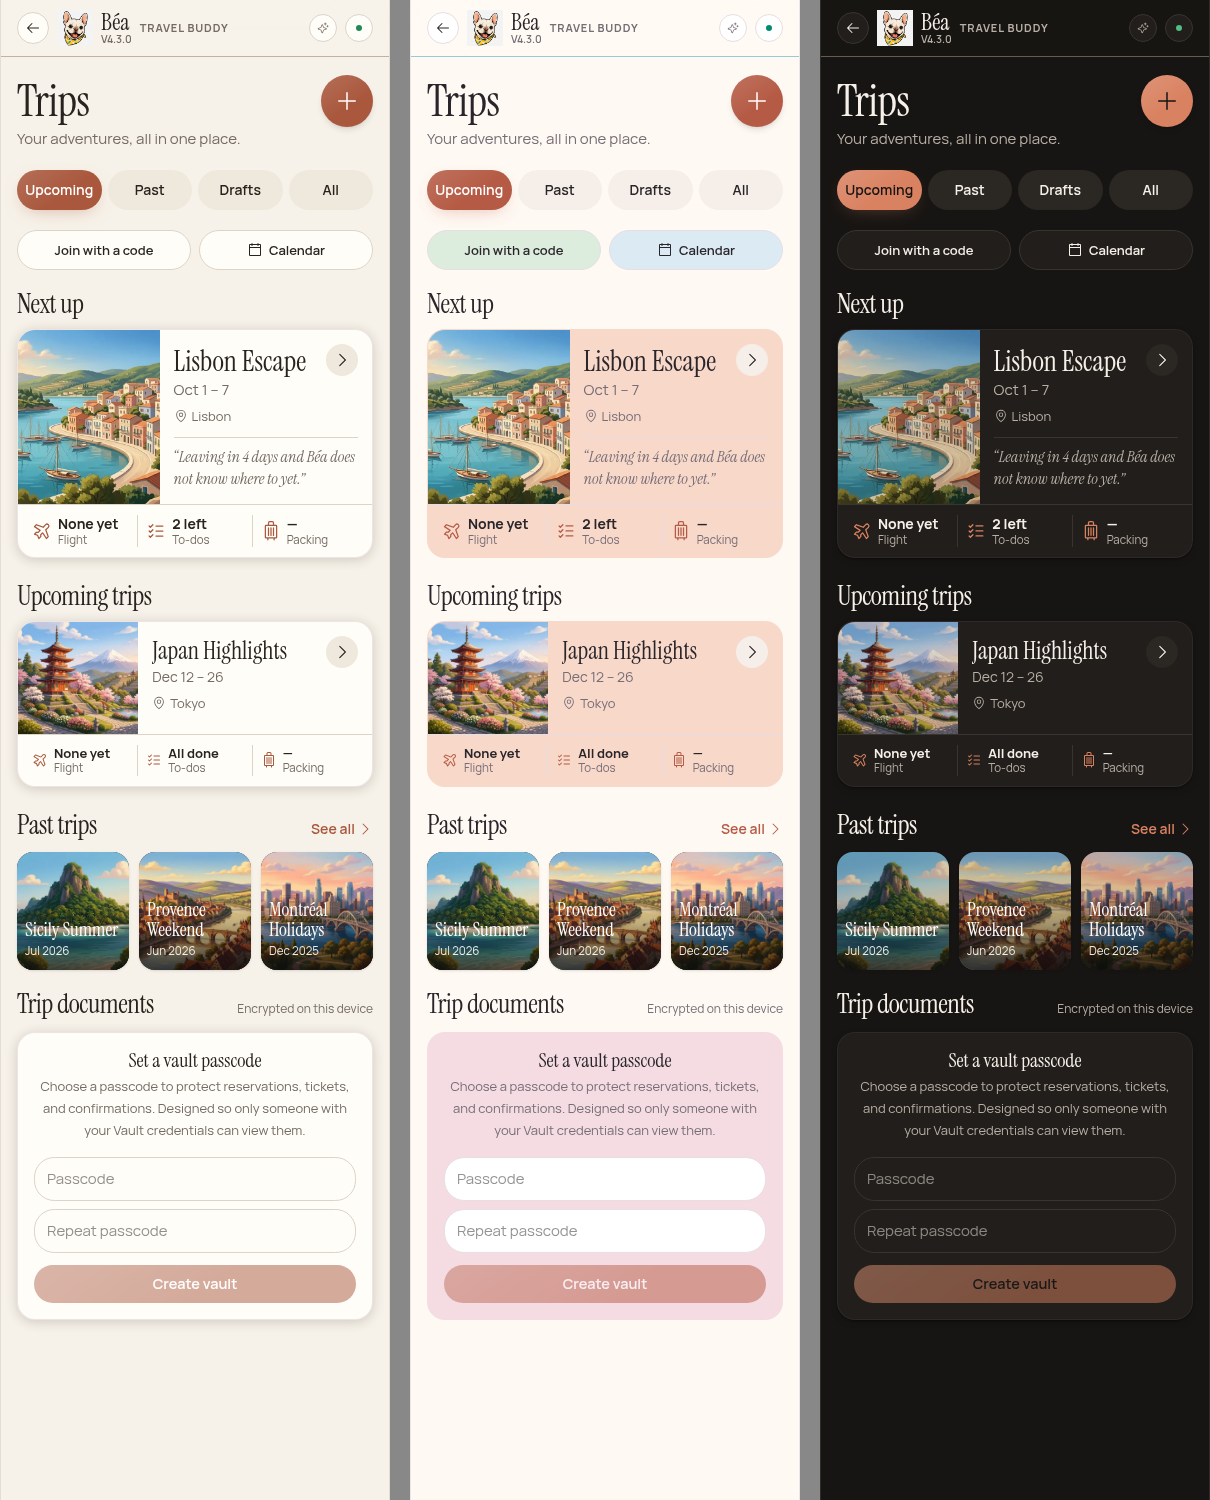
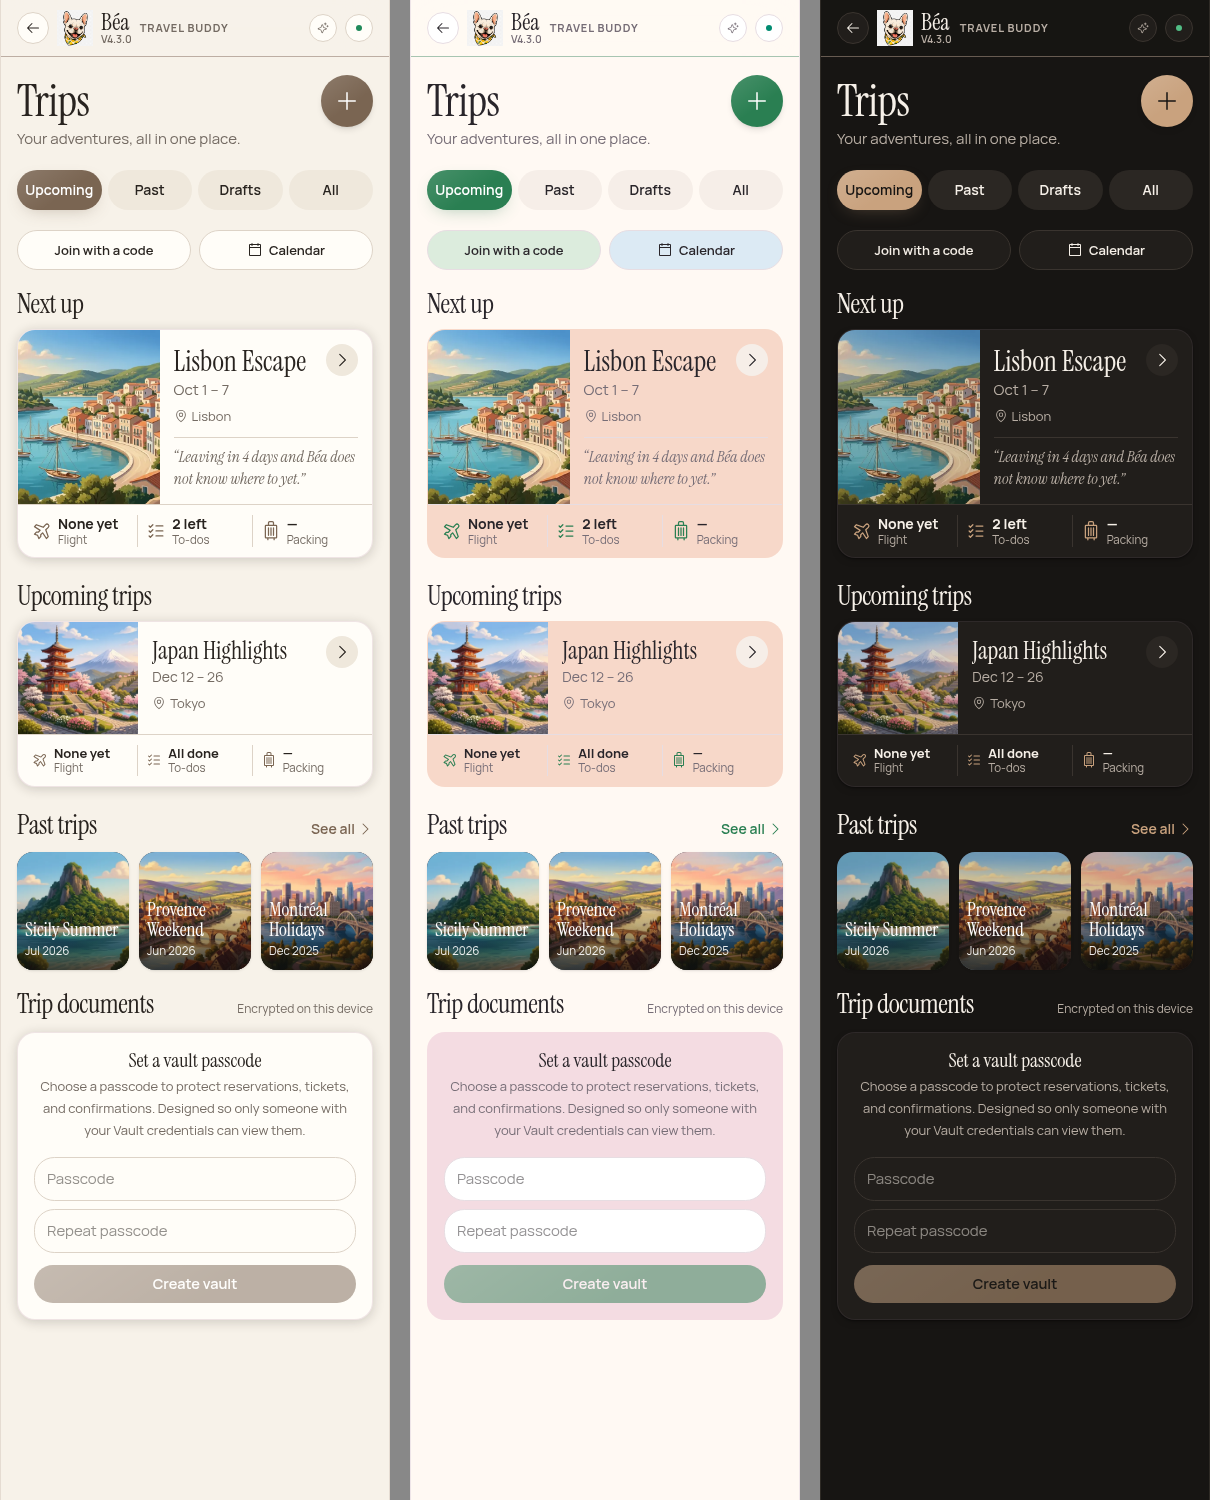
No terracotta: taupe in Calm, beige in Dark, a pastel accent per tab in Colorful
Claude-Session: https://claude.ai/code/session_01TVRL6Vd59wbijmpHwJPEuE

diff --git a/src/styles.css b/src/styles.css
@@ -86,10 +86,10 @@
   --elevated: #efe8dc;
   --popover: #ffffff;
   --popover-foreground: #28231f;
-  --primary: #a9583d;
+  --primary: #7a6552;
   --primary-foreground: #ffffff;
   /* A tint of the primary, for selected chips and quiet highlights. */
-  --primary-soft: rgb(169 88 61 / 0.12);
+  --primary-soft: rgb(122 101 82 / 0.12);
   --secondary: #efe8dc;
   --secondary-foreground: #28231f;
   --muted: #f0eae0;
@@ -100,7 +100,7 @@
   --destructive-foreground: oklch(0.99 0.008 86);
   --border: #ddd3c7;
   --input: #ddd3c7;
-  --ring: #a9583d;
+  --ring: #7a6552;
 
   --visited: oklch(0.55 0.135 249);
   --nexttime: oklch(0.56 0.12 158);
@@ -118,18 +118,18 @@
   /* Accent text on an inverted surface (bg-foreground), e.g. the Now card. */
   --inverse-accent: oklch(0.8 0.06 60);
 
-  --tab-l: 0.54;
-  --tab-c: 0.07;
+  --tab-l: 0.5;
+  --tab-c: 0.03;
 
   /* Diffuse and low-contrast: modern depth is soft, not a hard drop shadow. */
   --shadow-xs: 0 1px 2px oklch(0.3 0.02 60 / 0.04);
   --shadow-sm: 0 2px 12px rgb(30 26 23 / 0.19);
   --shadow-md: 0 2px 12px rgb(30 26 23 / 0.19);
   --shadow-lg: 0 6px 24px rgb(30 26 23 / 0.22);
-  --shadow-primary: 0 6px 18px -8px rgb(169 88 61 / 0.5);
+  --shadow-primary: 0 6px 18px -8px rgb(122 101 82 / 0.45);
   --shadow-soft: var(--shadow-md);
 
-  --gradient-clay: linear-gradient(142deg, #b5654a, #a9583d);
+  --gradient-clay: linear-gradient(142deg, #8a7560, #7a6552);
   /* Barely-there warmth so the page is not a flat fill. */
   --page-wash: radial-gradient(120% 70% at 50% -10%, oklch(1 0.006 80 / 0.9), transparent 70%);
 
@@ -169,7 +169,7 @@
 }
 
 /* Colorful — the master's pastels (peach, sky, mint, butter, blush) on a warm
-   white, with a terracotta accent. Lavender is left out: no purple wash. */
+   white. The accent alternates between the pastels, one per tab (below). */
 [data-theme="colorful"] {
   --background: #fff9f3;
   --foreground: #29252a;
@@ -178,9 +178,9 @@
   --elevated: #f6eee8;
   --popover: #ffffff;
   --popover-foreground: #29252a;
-  --primary: #b55b45;
+  --primary: #2f7bb0;
   --primary-foreground: #ffffff;
-  --primary-soft: rgb(181 91 69 / 0.12);
+  --primary-soft: rgb(47 123 176 / 0.13);
   --secondary: #f6eee8;
   --secondary-foreground: #29252a;
   --muted: #f7f0ea;
@@ -189,7 +189,7 @@
   --accent-foreground: #29252a;
   --border: #e7dde2;
   --input: #e7dde2;
-  --ring: #b55b45;
+  --ring: #2f7bb0;
 
   --visited: oklch(0.56 0.14 249);
   --nexttime: oklch(0.56 0.12 175);
@@ -209,14 +209,14 @@
   --tab-l: 0.56;
   --tab-c: 0.14;
 
-  --shadow-primary: 0 6px 18px -8px rgb(181 91 69 / 0.45);
-  --gradient-clay: linear-gradient(142deg, #c06a52, #b55b45);
+  --shadow-primary: 0 6px 18px -8px rgb(47 123 176 / 0.45);
+  --gradient-clay: linear-gradient(142deg, color-mix(in oklch, #2f7bb0 88%, white), #2f7bb0);
   --page-wash: none;
   --success: #5e806b;
   --warning: #b9833e;
 }
 
-/* Dark — near-black with off-white text and a warm terracotta accent. */
+/* Dark — near-black with off-white text and a warm beige accent. */
 .dark {
   --background: #171513;
   --foreground: #f6f0e8;
@@ -225,9 +225,9 @@
   --elevated: #2b2723;
   --popover: #2b2723;
   --popover-foreground: #f6f0e8;
-  --primary: #d98261;
+  --primary: #c9a27e;
   --primary-foreground: #171513;
-  --primary-soft: rgb(217 130 97 / 0.16);
+  --primary-soft: rgb(201 162 126 / 0.16);
   --secondary: #2b2723;
   --secondary-foreground: #f6f0e8;
   --muted: #2b2723;
@@ -238,7 +238,7 @@
   --destructive-foreground: oklch(0.99 0.008 86);
   --border: #3a342f;
   --input: #3a342f;
-  --ring: #d98261;
+  --ring: #c9a27e;
 
   --visited: oklch(0.7 0.135 249);
   --nexttime: oklch(0.72 0.13 158);
@@ -261,10 +261,10 @@
   --shadow-sm: 0 1px 2px oklch(0 0 0 / 0.35), 0 3px 8px -4px oklch(0 0 0 / 0.5);
   --shadow-md: 0 1px 2px oklch(0 0 0 / 0.35), 0 12px 28px -16px oklch(0 0 0 / 0.75);
   --shadow-lg: 0 2px 4px oklch(0 0 0 / 0.4), 0 28px 56px -28px oklch(0 0 0 / 0.85);
-  --shadow-primary: 0 6px 18px -8px rgb(217 130 97 / 0.4);
+  --shadow-primary: 0 6px 18px -8px rgb(201 162 126 / 0.35);
   --shadow-soft: var(--shadow-md);
 
-  --gradient-clay: linear-gradient(142deg, #e08f70, #d98261);
+  --gradient-clay: linear-gradient(142deg, #d4ad88, #b88d68);
   --page-wash: radial-gradient(120% 70% at 50% -10%, oklch(0.26 0.01 60 / 0.6), transparent 70%);
 
   --success: #86a78b;
@@ -413,15 +413,9 @@
 /* Lightness and chroma come from the theme (--tab-l, --tab-c), so Dark and
    Colorful need no override of their own here. */
 
-/* The band runs upward from the brand's 39°, in even steps, in tab order — so
-   the accent walks along the bar with you.
- *
- * Upward on purpose: below 39° the warm terracotta turns rosy within twenty
- * degrees and stops reading as the same colour family, while above it the hue
- * travels terracotta → amber → gold and stays unmistakably Béa. Forty degrees
- * is the whole range; wider and the tabs read as five apps rather than one
- * app wearing five hats, which is the failure this is meant to fix.
- */
+/* Calm walks a quiet taupe band (low chroma, so the tabs differ by warmth,
+   not by colour); Dark walks the beige band. Colorful sets its own pastel
+   accent per tab below. */
 [data-tab="home"] {
   --tab-hue: 39;
 }
@@ -437,21 +431,49 @@
 [data-tab="you"] {
   --tab-hue: 79;
 }
-/* Colorful walks the cool pastels instead of the warm band. */
+/* Colorful: the accent alternates between the pastels — each tab takes one,
+   deepened enough to read as text and to carry white on a button (blush,
+   sky, mint, lavender, butter; no terracotta). The whole tab's primary follows it, so its
+   buttons, links and active chips match the tab bar. */
 [data-theme="colorful"] [data-tab="home"] {
-  --tab-hue: 292;
+  --tab-accent: #c24a67;
+  --primary: #c24a67;
+  --ring: #c24a67;
+  --primary-soft: rgb(194 74 103 / 0.13);
+  --shadow-primary: 0 6px 18px -8px rgb(194 74 103 / 0.45);
+  --gradient-clay: linear-gradient(142deg, color-mix(in oklch, #c24a67 88%, white), #c24a67);
 }
 [data-theme="colorful"] [data-tab="world"] {
-  --tab-hue: 250;
+  --tab-accent: #2f7bb0;
+  --primary: #2f7bb0;
+  --ring: #2f7bb0;
+  --primary-soft: rgb(47 123 176 / 0.13);
+  --shadow-primary: 0 6px 18px -8px rgb(47 123 176 / 0.45);
+  --gradient-clay: linear-gradient(142deg, color-mix(in oklch, #2f7bb0 88%, white), #2f7bb0);
 }
 [data-theme="colorful"] [data-tab="trips"] {
-  --tab-hue: 215;
+  --tab-accent: #2a7f52;
+  --primary: #2a7f52;
+  --ring: #2a7f52;
+  --primary-soft: rgb(42 127 82 / 0.13);
+  --shadow-primary: 0 6px 18px -8px rgb(42 127 82 / 0.45);
+  --gradient-clay: linear-gradient(142deg, color-mix(in oklch, #2a7f52 88%, white), #2a7f52);
 }
 [data-theme="colorful"] [data-tab="recs"] {
-  --tab-hue: 180;
+  --tab-accent: #7a5aa8;
+  --primary: #7a5aa8;
+  --ring: #7a5aa8;
+  --primary-soft: rgb(122 90 168 / 0.13);
+  --shadow-primary: 0 6px 18px -8px rgb(122 90 168 / 0.45);
+  --gradient-clay: linear-gradient(142deg, color-mix(in oklch, #7a5aa8 88%, white), #7a5aa8);
 }
 [data-theme="colorful"] [data-tab="you"] {
-  --tab-hue: 320;
+  --tab-accent: #9a6a10;
+  --primary: #9a6a10;
+  --ring: #9a6a10;
+  --primary-soft: rgb(154 106 16 / 0.13);
+  --shadow-primary: 0 6px 18px -8px rgb(154 106 16 / 0.45);
+  --gradient-clay: linear-gradient(142deg, color-mix(in oklch, #9a6a10 88%, white), #9a6a10);
 }
 
 /** The moving tab pill and the rule under the header, and nowhere else. */
@@ -953,7 +975,7 @@
   --journal-water: #dcebf2;
   --journal-park: #dce6d3;
   --journal-ink: #443d36;
-  --journal-accent: #d96b43;
+  --journal-accent: var(--color-primary);
   background: var(--journal-paper);
   box-shadow:
     0 0 0 1px rgb(68 61 54 / 0.07),

diff --git a/src/components/HomeTripCard.tsx b/src/components/HomeTripCard.tsx
@@ -118,7 +118,7 @@ export function HomeTripHero({
             ) : null}
           </span>
           {tags.when ? (
-            <span className="rounded-full bg-white/92 px-2.5 py-1 text-[10.5px] font-bold uppercase tracking-[0.08em] text-[#b0413b]">
+            <span className="rounded-full bg-white/92 px-2.5 py-1 text-[10.5px] font-bold uppercase tracking-[0.08em] text-primary">
               {tags.when}
             </span>
           ) : null}

diff --git a/src/components/day/StopCard.tsx b/src/components/day/StopCard.tsx
@@ -91,7 +91,7 @@ export function StopCard({
       </span>
 
       <span
-        // The same terracotta disc as the pin it matches on the map.
+        // The same accent disc as the pin it matches on the map.
         className={`grid size-6 shrink-0 place-items-center rounded-full text-[11px] font-semibold tabular-nums transition-colors ${
           selected
             ? "bg-primary text-primary-foreground shadow-sm"

diff --git a/src/components/day/DayMap.tsx b/src/components/day/DayMap.tsx
@@ -30,7 +30,7 @@ function prefersReducedMotion(): boolean {
 }
 
 /**
- * Warm terracotta discs, numbered. The chosen one is larger and deeper, and
+ * Discs in the theme accent, numbered. The chosen one is larger and deeper, and
  * that is all it does — no bounce, no pulse, nothing that says "GPS".
  */
 function pinClass(selected: boolean, tone: PinTone, nested = false): string {

diff --git a/.superdesign/handoff/DECISIONS.md b/.superdesign/handoff/DECISIONS.md
@@ -56,3 +56,7 @@
   owner's Google credits. Reuse `public/places/` and `public/banners/`.
 - ChatGPT's single-file prototype (pasted in chat) is the layout and flow
   blueprint for the remaining screens; colours stay from the token file.
+- **No terracotta anywhere** (owner dislikes it). Calm: warm taupe #7a6552.
+  Dark: beige #c9a27e. Colorful: the accent alternates by tab between
+  deepened pastels — Home blush, World sky, Trips mint, Recs lavender,
+  You butter.
